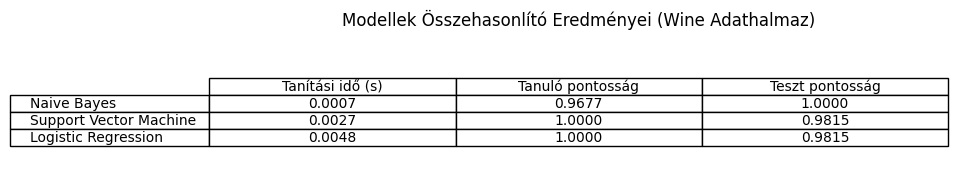
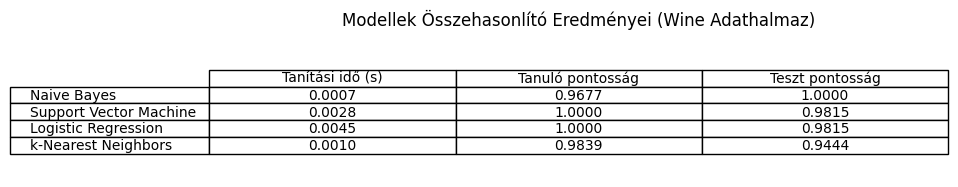
2. Feladat véglegesítése

Changed region(s): [[0.0, 0.3476, 0.999, 0.8556]]

diff --git a/part2_classification_wine.py b/part2_classification_wine.py
@@ -38,7 +38,7 @@ try:
     print("\nOsztályok eloszlása:")
     print(df['Class'].value_counts())
 
-    # --- Adat vizualizációja (PCA-val 2D-ben) ---
+    # --- Adat vizualizálásához (PCA-val 2D-ben) ---
     # Jellemzők és célváltozó szétválasztása a vizualizációhoz
     X_viz = df.drop('Class', axis=1)
     y_viz = df['Class']
@@ -80,8 +80,8 @@ try:
     models = {
         "Naive Bayes": GaussianNB(),
         "Support Vector Machine": SVC(random_state=42, probability=True), # probability=True lehet hasznos később
-        "Logistic Regression": LogisticRegression(random_state=42, max_iter=10000) # Növelt max_iter a konvergenciához
-        # "k-Nearest Neighbors": KNeighborsClassifier(n_neighbors=5) # k-NN-t ide is tehetjük
+        "Logistic Regression": LogisticRegression(random_state=42, max_iter=10000), # Növelt max_iter a konvergenciához
+        "k-Nearest Neighbors": KNeighborsClassifier(n_neighbors=5) # k-NN-t ide is tehetjük - KOMMENT ELTÁVOLÍTVA
     }
 
     # --- Modellek tanítása és kiértékelése ---
@@ -185,6 +185,49 @@ try:
     print(f"\nÖsszefoglaló táblázat mentve: {os.path.join(output_dir_part2, 'summary_results_table_part2.png')}")
     plt.show()
 
+    # --- Tanulási/Tesztelési Pontosság az Iterációk Függvényében (Logisztikus Regresszió) ---
+    print("\n--- Tanulási/Tesztelési Pontosság az Iterációk Függvényében (Logisztikus Regresszió) ---")
+
+    iterations_lr_part2 = [1, 5, 10, 20, 50, 100, 200, 500, 1000, 2000, 5000, 10000] # Kipróbált iterációszámok
+    train_accuracies_lr_part2 = []
+    test_accuracies_lr_part2 = []
+
+    # Figyelmeztetések ideiglenes kikapcsolása (ConvergenceWarning miatt)
+    import warnings
+    from sklearn.exceptions import ConvergenceWarning
+    warnings.filterwarnings("ignore", category=ConvergenceWarning)
+
+    for n_iter in iterations_lr_part2:
+        # Modell létrehozása az adott iterációszámmal
+        # Használjuk ugyanazt a random_state-et, mint a fő modellnél
+        lr_iter_part2 = LogisticRegression(random_state=42, max_iter=n_iter, solver='lbfgs')
+        # Tanítás
+        lr_iter_part2.fit(X_train_scaled, y_train)
+        # Pontosság számítása
+        train_acc = lr_iter_part2.score(X_train_scaled, y_train)
+        test_acc = lr_iter_part2.score(X_test_scaled, y_test)
+        train_accuracies_lr_part2.append(train_acc)
+        test_accuracies_lr_part2.append(test_acc)
+        # print(f"Iterációk: {n_iter}, Tanuló pontosság: {train_acc:.4f}, Teszt pontosság: {test_acc:.4f}") # Opcionális
+
+    # Figyelmeztetések visszaállítása
+    warnings.filterwarnings("default", category=ConvergenceWarning)
+
+    # Ábrázolás
+    plt.figure(figsize=(10, 6))
+    plt.plot(iterations_lr_part2, train_accuracies_lr_part2, marker='o', label='Tanuló pontosság')
+    plt.plot(iterations_lr_part2, test_accuracies_lr_part2, marker='x', linestyle='--', label='Teszt pontosság')
+    plt.xlabel("Iterációk száma (max_iter)")
+    plt.ylabel("Pontosság")
+    plt.title("Logisztikus Regresszió Pontossága az Iterációk Függvényében (Wine)")
+    plt.xscale('log') # Logaritmikus skála az x tengelyen
+    plt.ylim(0.9, 1.02) # y tengely limitálása a jobb láthatóságért
+    plt.grid(True, which="both", ls="--")
+    plt.legend()
+    plt.savefig(os.path.join(output_dir_part2, 'logistic_regression_accuracy_vs_iterations_part2.png')) # Mentés
+    print(f"LogReg iterációs ábra mentve: {os.path.join(output_dir_part2, 'logistic_regression_accuracy_vs_iterations_part2.png')}")
+    plt.show()
+
 
     # --- Hiperparaméter-hangolás (Példa: SVM 'C' és 'gamma' paraméterei) ---
     print("\n--- Hiperparaméter-hangolás (SVM) ---")
@@ -245,6 +288,47 @@ try:
     plt.savefig(os.path.join(output_dir_part2, 'confusion_matrix_svm_best_tuned.png')) # Mentés
     print(f"Legjobb SVM konfúziós mátrixa mentve: {os.path.join(output_dir_part2, 'confusion_matrix_svm_best_tuned.png')}")
     plt.show()
+
+    # --- Hiperparaméter-hangolás Eredményeinek Vizualizációja (SVM Heatmap) ---
+    print("\n--- SVM Hiperparaméter-hangolás Vizualizációja ---")
+
+    # Eredmények kinyerése a GridSearchCV-ből
+    results_df = pd.DataFrame(grid_search_svm.cv_results_)
+
+    # Csak a releváns oszlopok kiválasztása és típuskonverzió, ha szükséges
+    # A paraméter nevek a param_grid kulcsaiból származnak ('param_' előtaggal)
+    results_df = results_df[['param_C', 'param_gamma', 'mean_test_score']]
+    # A 'gamma' lehet string ('scale', 'auto') vagy float. A heatmaphez numerikus értékek kellenek.
+    # Egyszerűsítésként most csak a numerikus gamma értékekkel dolgozunk, ha vannak.
+    # Vagy átalakíthatnánk a stringeket is valamilyen numerikus reprezentációra, de az bonyolultabb.
+    # Itt most feltételezzük, hogy a param_grid csak numerikus gamma értékeket is tartalmazott,
+    # vagy a DataFrame képes kezelni a kevert típusokat a pivotáláshoz.
+    # A biztonság kedvéért konvertáljuk a pontszámot float-ra.
+    results_df['mean_test_score'] = results_df['mean_test_score'].astype(float)
+
+    # Pivot tábla létrehozása a heatmaphez
+    # A 'gamma' oszlop tartalmazhat stringeket ('scale', 'auto'), ezeket kezelni kell.
+    # Legegyszerűbb, ha a pivotálás előtt ezeket kiszűrjük vagy átalakítjuk.
+    # Most próbáljuk meg közvetlenül, hátha a pandas kezeli.
+    try:
+        scores = results_df.pivot(index='param_C', columns='param_gamma', values='mean_test_score')
+
+        plt.figure(figsize=(10, 6))
+        sns.heatmap(scores, annot=True, fmt=".4f", cmap="viridis") # fmt=".4f" a pontosság jobb megjelenítéséhez
+        plt.title('SVM Keresztvalidációs Pontosság (Heatmap)')
+        plt.xlabel('Gamma paraméter')
+        plt.ylabel('C paraméter')
+        plt.savefig(os.path.join(output_dir_part2, 'svm_tuning_heatmap.png')) # Mentés
+        print(f"SVM hangolás heatmap mentve: {os.path.join(output_dir_part2, 'svm_tuning_heatmap.png')}")
+        plt.show()
+
+    except ValueError as ve:
+        print(f"\nHiba a heatmap készítésekor: {ve}")
+        print("Lehetséges ok: A 'gamma' paraméter tartalmazott nem numerikus értékeket ('scale', 'auto'), amelyeket a pivot nem tudott kezelni.")
+        print("A heatmap nem készült el. Próbáld meg csak numerikus 'gamma' értékekkel a param_grid-ben.")
+    except KeyError as ke:
+         print(f"\nHiba a heatmap készítésekor: Hiányzó oszlop - {ke}")
+         print("Ellenőrizd a DataFrame oszlopneveit és a pivot függvény paramétereit.")
 
 
     # --- Döntési határok vizualizációja (2D PCA adatokon) ---
